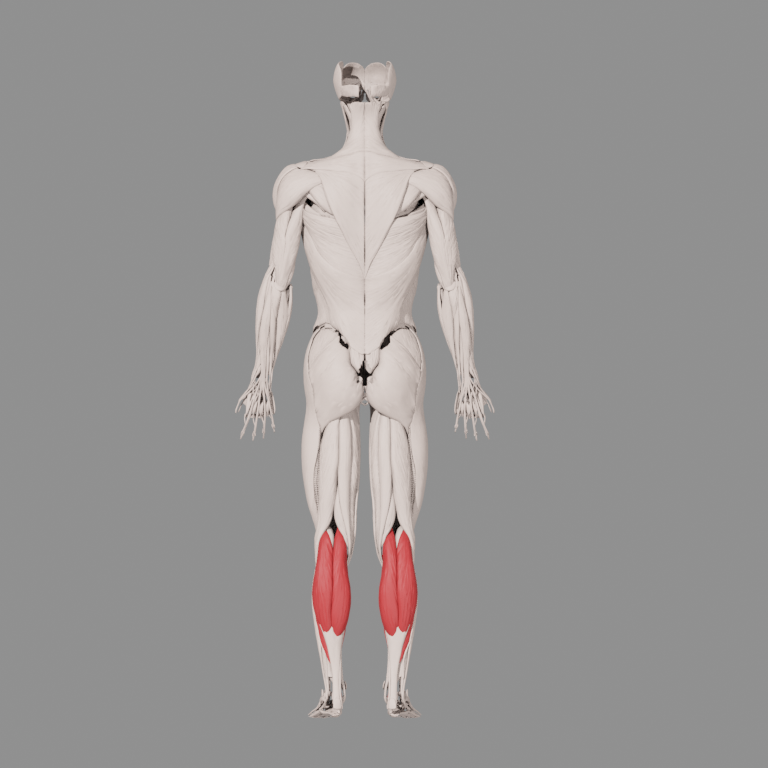
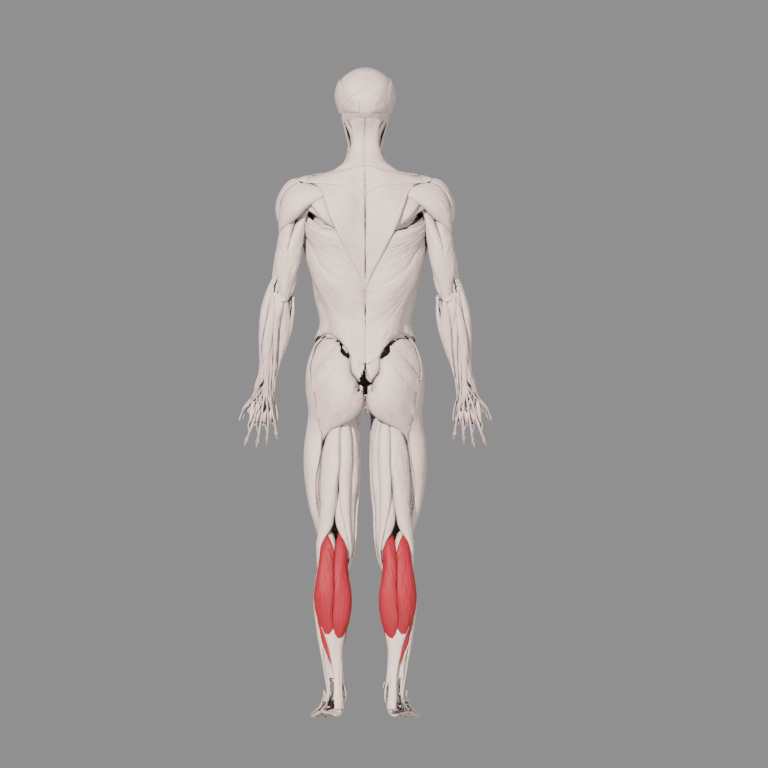
catalog: the one écorché we ship had no skull — it predates the head fill
render.py grew the head-fill (reveal cranium/mandible/teeth so the camera
doesn't look into an empty cranial cavity) on 2026-07-19, the evening after
this image was rendered and committed. Nothing re-rendered it, so the library
has been serving a torn stump ever since. The guard for it printed a WARNING
where its two neighbours sys.exit; it fails now.

diff --git a/render/render.py b/render/render.py
@@ -186,8 +186,11 @@ if n_muscle == 0:
 if prim_bases and n_prim == 0:
     sys.exit("primary muscles mapped but 0 meshes matched — mesh names drifted?")
 if n_head == 0:
-    print("WARNING: no head-region skeleton found — head may still look hollow. "
-          "Did prepare.py keep the Skeletal system?")
+    # Loudly, like its neighbours. This was a warning once, and the headless
+    # render it let through was committed to the catalog and served for weeks —
+    # the muscles were right, so nothing downstream had a reason to look.
+    sys.exit("no head-region skeleton found — the head would render hollow. "
+             "Did prepare.py keep the Skeletal system?")
 
 # Frame the whole figure with an orthographic camera from the requested side.
 mins = mathutils.Vector((1e9,) * 3)
